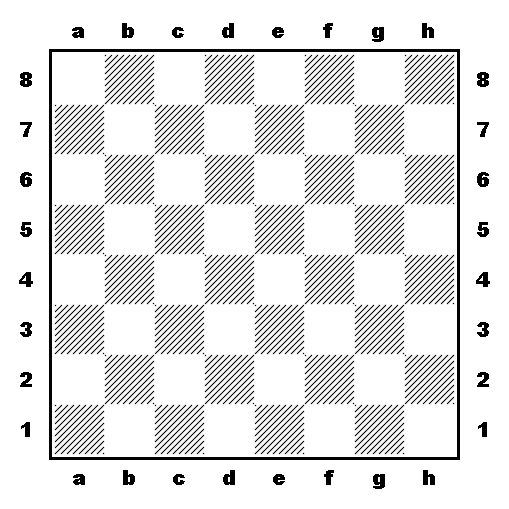
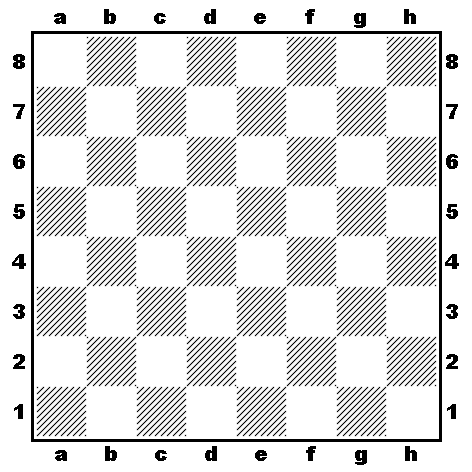
Added navigation buttons + redesigned main window

diff --git a/mainwindow.cpp b/mainwindow.cpp
@@ -7,7 +7,7 @@ MainWindow::MainWindow(QWidget *parent)
     , ui(new Ui::MainWindow)
 {
     ui->setupUi(this);
-    this->setFixedSize(QSize(695, 555));
+    this->setFixedSize(QSize(663, 518));
 
     board.load(":/graphics/board.png");
 
@@ -39,6 +39,8 @@ MainWindow::MainWindow(QWidget *parent)
     
     stat = new QLabel("");
     ui->statusbar->addWidget(stat);
+    jump_fmt = new QTextCharFormat();
+    jump_cursor = new QTextCursor(ui->textEdit->document());
     set_board();
 }
 
@@ -85,6 +87,10 @@ QImage* MainWindow::which_piece(int a)
 
 void MainWindow::init_board()
 {
+    jump = 0;
+    st_arr.clear();
+    ans_moves.clear();
+    
     for(int r = 0; r < 8; r++)
         for(int c = 0; c < 8; c++)
             st_g.b[r][c] = init[r][c];
@@ -129,8 +135,8 @@ void MainWindow::set_board()
 
             if(piece != nullptr)
             {
-                x = c * 50 + 55;
-                y = r * 50 + 55;
+                x = c * 50 + 37;
+                y = r * 50 + 37;
                 QPainter painter(&processBoard);
                 painter.drawImage(x, y, *piece);
                 ui->label->setPixmap(QPixmap::fromImage(processBoard));
@@ -151,6 +157,10 @@ void MainWindow::set_board()
 
 void MainWindow::clear_board()
 {
+    jump = 0;
+    st_arr.clear();
+    ans_moves.clear();
+    
     st_g.white_pieces.clear();
     st_g.black_pieces.clear();
     st_g.white_moves.clear();
@@ -180,8 +190,8 @@ void MainWindow::draw_board()
 
             if(piece != nullptr)
             {
-                x = c * 50 + 55;
-                y = r * 50 + 55;
+                x = c * 50 + 37;
+                y = r * 50 + 37;
                 QPainter painter(&processBoard);
                 painter.drawImage(x, y, *piece);
             }
@@ -210,8 +220,8 @@ void MainWindow::mousePressEvent(QMouseEvent *e)
     int c;
     int r;
 
-    r = ((e->pos().y() - 77 >= 0) ? e->pos().y() - 77 : -100) / 50;
-    c = ((e->pos().x() - 55 >= 0) ? e->pos().x() - 55 : -100) / 50;
+    r = ((e->pos().y() - 58 >= 0) ? e->pos().y() - 58 : -100) / 50;
+    c = ((e->pos().x() - 37 >= 0) ? e->pos().x() - 37 : -100) / 50;
 
     if(select == false && c >= 0 && c < 8 && r >= 0 && r < 8)
     {
@@ -221,10 +231,14 @@ void MainWindow::mousePressEvent(QMouseEvent *e)
         if(e->buttons() == Qt::RightButton)
         {
             if(st_g.b[r][c] != 0)
+            {
                 st_g.b[r][c] = 0;
-            select = false;
-            set_board();
-            draw_board();
+                select = false;
+                jump = 0;
+                st_arr.clear();
+                set_board();
+                draw_board();
+            }
         }
         if(ew != nullptr && ew->piece != 0)
         {
@@ -243,6 +257,8 @@ void MainWindow::mousePressEvent(QMouseEvent *e)
                 && st_g.black_king_pos != std::make_pair(r, c))
                     st_g.b[st_g.black_king_pos.first][st_g.black_king_pos.second] = 0;             
             
+            jump = 0;
+            st_arr.clear();
             set_board();
             draw_board();
             ew->piece = 0;
@@ -273,6 +289,8 @@ void MainWindow::mousePressEvent(QMouseEvent *e)
                 promotion.setModal(true);
                 promotion.exec();
             }
+            jump = 0;
+            st_arr.clear();
             Solver::update_state(st_g, promotion.prom + row * 1000 + col * 100 + r * 10 + c);
             draw_board();
             select = false;
@@ -610,26 +628,37 @@ void MainWindow::on_pushButton_2_clicked()
 {
     count = 0;
     ans = false;
-    ans_moves.clear();
-    ui->textEdit->clear();
+    state temp;
     std::stringstream ss;
+        
+    ans_moves.clear();
+    st_arr.clear();
+    ui->textEdit->clear();
 
+    
     auto start = std::chrono::steady_clock::now();
-    //std::cout << "PROBLEM: " << problem << "\n";
+
     switch(problem)
     {
         case 0:
+            jump = aom * 2 - 1;
+            st_arr.push_back(st_g);
             Solver::find_mate_in(st_g, (aom * 2 - 1), side);
             break;
 
         case 1:
+            jump = aom * 2;
+            st_arr.push_back(st_g);
             Solver::helpmate(st_g, (aom * 2), side);
             break;
 
         case 2:
+            jump = aom * 2;
+            st_arr.push_back(st_g);
             Solver::selfmate(st_g, (aom * 2), side);
             break;
     }
+    
     auto stop = std::chrono::steady_clock::now();
     std::chrono::duration<double> du = stop - start;
     auto hrs = std::chrono::duration_cast<std::chrono::hours>(du);
@@ -638,21 +667,36 @@ void MainWindow::on_pushButton_2_clicked()
     auto ms = std::chrono::duration_cast<std::chrono::milliseconds>(du - hrs - min - sec);
     ss << "time: " << hrs.count() << "h " << min.count() << "m " 
         << sec.count() << "s " << ms.count() << "ms" << "        " << "states checked: " << count;
-    
     stat->setText(QString::fromStdString(ss.str()));
     
     draw_board();
 
-    ss.str(std::string());
-    for (auto e: ans_moves)
+    if(ans)
     {
-        ss << (char)(e / 100 % 10 + 97);
-        ss << 8 - e / 1000 % 10;
-        ss << (char)(e % 10 + 97);
-        ss << 8- e / 10 % 10;
-        ss << '\n';
+        ss.str(std::string());
+        for (long i = 0; i < ans_moves.size(); i++)
+        {
+            temp = st_arr[i];
+            Solver::update_state(temp, ans_moves[i]);
+            st_arr.push_back(temp);
+            
+            ss << (char)(ans_moves[i] / 100 % 10 + 97);
+            ss << 8 - ans_moves[i] / 1000 % 10;
+            ss << (char)(ans_moves[i] % 10 + 97);
+            ss << 8- ans_moves[i] / 10 % 10;
+            if(i % 2 == 1)
+                ss << '\n';
+            else
+                ss << ' ';
+        }
+        ui->textEdit->setText(QString::fromStdString(ss.str()));
+        highlight_move();
     }
-    ui->textEdit->setText(QString::fromStdString(ss.str()));
+    else
+    {
+        jump = 0;
+        st_arr.clear();
+    }
 }
 
 void MainWindow::on_spinBox_valueChanged(int arg1)
@@ -690,5 +734,74 @@ void MainWindow::on_comboBox_2_activated(int index)
 void MainWindow::on_Clear_clicked()
 {
     clear_board();
+}
+
+void MainWindow::highlight_move()
+{
+    jump_fmt->setBackground(Qt::white);
+    jump_cursor->setCharFormat(*jump_fmt);
+    if(jump > 0)
+    {
+        jump_fmt->setBackground(Qt::cyan);
+        jump_cursor->setPosition((jump - 1) * 5, QTextCursor::MoveAnchor);
+        jump_cursor->setPosition((jump - 1) * 5 + 4, QTextCursor::KeepAnchor);
+        jump_cursor->setCharFormat(*jump_fmt);
+    }
+    else
+    {
+        jump_fmt->setBackground(Qt::lightGray);
+        jump_cursor->setPosition(0, QTextCursor::MoveAnchor);
+        jump_cursor->setPosition(4, QTextCursor::KeepAnchor);
+        jump_cursor->setCharFormat(*jump_fmt);
+    }
+}
+
+void MainWindow::on_previous_clicked()
+{
+    if(!st_arr.empty() && jump > 0 && jump <= st_arr.size())
+    {
+        st_g = st_arr[--jump];
+        set_board();
+        draw_board();
+        highlight_move();
+    }
+}
+
+
+void MainWindow::on_next_clicked()
+{
+    if(!st_arr.empty() && jump < st_arr.size() - 1)
+    {
+        st_g = st_arr[++jump];
+        set_board();
+        draw_board();
+        highlight_move();
+    }
+}
+
+
+void MainWindow::on_first_clicked()
+{
+    if(!st_arr.empty())
+    {
+        st_g = st_arr[0];
+        set_board();
+        draw_board();
+        jump = 0;
+        highlight_move();
+    }
+}
+
+
+void MainWindow::on_last_clicked()
+{
+    if(!st_arr.empty() && jump < st_arr.size())
+    {
+        jump = st_arr.size();
+        st_g = st_arr[--jump];
+        set_board();
+        draw_board();
+        highlight_move();
+    }
 }
 

diff --git a/mainwindow.h b/mainwindow.h
@@ -4,12 +4,14 @@
 #include <iostream>
 #include <chrono>
 #include <ctype.h>
+#include "QTextCharFormat"
 #include "QMainWindow"
 #include "QMouseEvent"
 #include "QPainter"
 #include "QFileDialog"
 #include "QFile"
 #include "QLabel"
+#include "global_data.h"
 #include "editwindow.h"
 #include "promotionwindow.h"
 
@@ -48,6 +50,9 @@ public:
     bool side;
     bool select;
     bool edit;
+    
+    int jump;
+    std::vector<state> st_arr;
 
     MainWindow(QWidget *parent = nullptr);
     ~MainWindow();
@@ -56,6 +61,7 @@ public:
     void set_board();
     void clear_board();
     void draw_board();
+    void highlight_move();
     bool is_turn(const int r0, const int c0);
     QImage* which_piece(int a);
 
@@ -68,14 +74,18 @@ private slots:
     void on_spinBox_valueChanged(int arg1);
     void on_checkBox_stateChanged(int arg1);
     void on_comboBox_currentIndexChanged(int index);
-
     void on_comboBox_2_activated(int index);
-    
     void on_Clear_clicked();
+    void on_previous_clicked();
+    void on_next_clicked();
+    void on_first_clicked();
+    void on_last_clicked();
     
 private:
     Ui::MainWindow *ui;
     Editwindow *ew;
     QLabel *stat;
+    QTextCharFormat *jump_fmt;
+    QTextCursor *jump_cursor;
 };
 #endif // MAINWINDOW_H
